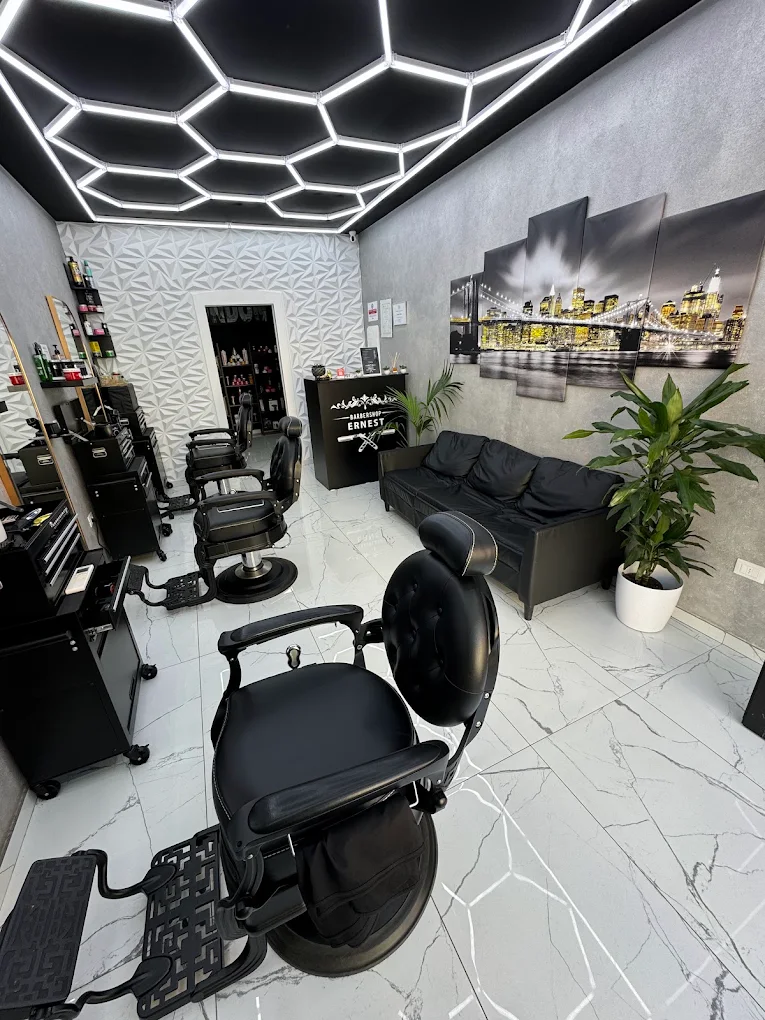
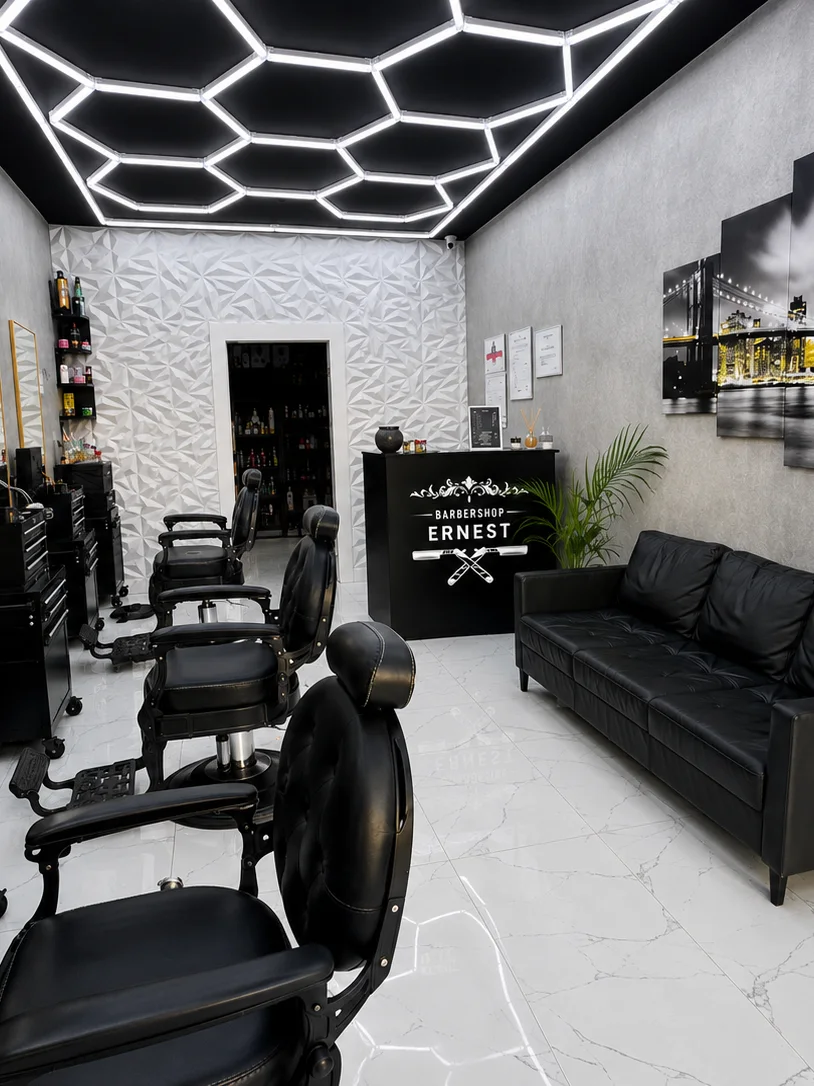
Nuova foto negozio per hero e sezione mobile

diff --git a/index.html b/index.html
@@ -444,7 +444,7 @@
   <main id="top">
     <section class="hero" aria-labelledby="hero-title">
       <picture class="hero-media">
-        <img src="images/barber-ernest/shop-hero.webp" width="765" height="1020" alt="" fetchpriority="high">
+        <img src="images/barber-ernest/shop-hero.webp" width="814" height="1086" alt="" fetchpriority="high">
       </picture>
       <div class="hero-grid shell">
         <div class="hero-copy">
@@ -530,7 +530,7 @@
         <figure class="shop-photo">
           <picture>
             <source media="(min-width: 720px)" srcset="images/barber-ernest/shop-section-desktop-hq.webp" type="image/webp">
-            <img src="images/barber-ernest/shop-section-mobile-hq.webp" width="1530" height="2040" loading="lazy" alt="Interno del Barber Shop Ernest con poltrone nere, pavimento effetto marmo e soffitto a LED geometrici">
+            <img src="images/barber-ernest/shop-section-mobile-hq.webp" width="814" height="1086" loading="lazy" alt="Interno del Barber Shop Ernest con poltrone nere, pavimento effetto marmo e soffitto a LED geometrici">
           </picture>
         </figure>
       </div>
